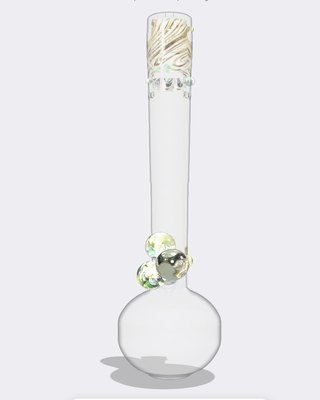
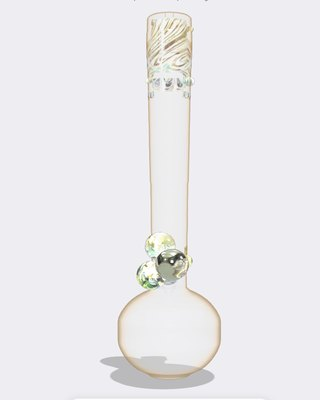
Gold fuming test: Barfly + Woodstock
Claude-Session: https://claude.ai/code/session_01AJWd6wzcifx7uWAAm9NBtR

diff --git a/le/barfly.html b/le/barfly.html
@@ -86,10 +86,10 @@ const photoMat = (map, alpha) => {
 // with the viewing angle (silver-gold / faint pink-blue), never a solid colour
 // (alpha-blended rather than transmission: the background, the marbles and the colour work behind it show
 // through exactly, with no refraction pass to wash it out)
-const G = Object.assign({ tint: 0xfff6e6, op: 0.2, env: 1.0, edge: 0.55 }, C.glassLook || {});
+const G = Object.assign({ tint: 0xfff6e6, op: 0.2, env: 1.0, edge: 0.55, gold: 0xffcc22, goldK: 0.3 }, C.glassLook || {});
 const glassMat = () => new THREE.MeshPhysicalMaterial({ color: G.tint, metalness: 0, roughness: 0.03, ior: 1.47, transparent: true, opacity: G.op,
   depthWrite: false, specularIntensity: 1, envMapIntensity: G.env, clearcoat: 0.6, clearcoatRoughness: 0.03,
-  iridescence: C.fume ?? 0.5, iridescenceIOR: 1.33, iridescenceThicknessRange: [180, 440], side: THREE.DoubleSide });
+  iridescence: C.fume ?? 0.25, iridescenceIOR: 1.33, iridescenceThicknessRange: [300, 460], side: THREE.DoubleSide });
 const maskOf = (k, like) => { if (!T[k]) return null; const t = tex(T[k]); t.colorSpace = THREE.NoColorSpace; t.wrapS = like.wrapS; t.repeat.copy(like.repeat); t.offset.copy(like.offset); return t; };
 const bodyMask = maskOf('bodyMask', bodyTex);
 let body;
@@ -102,6 +102,12 @@ if (C.glass && bodyMask) {
     vertexShader: 'varying vec3 vN; varying vec3 vV; void main(){ vec4 mv = modelViewMatrix * vec4(position,1.); vN = normalize(normalMatrix * normal); vV = normalize(-mv.xyz); gl_Position = projectionMatrix * mv; }',
     fragmentShader: 'uniform vec3 c; uniform float k; varying vec3 vN; varying vec3 vV; void main(){ float r = 1. - abs(dot(normalize(vN), normalize(vV))); gl_FragColor = vec4(c, k * smoothstep(0.55, 0.97, r)); }' }));
   e2.scale.set(1.002, 1, 1.002); piece.add(e2);
+  // silver fuming reads gold: a warm yellow highlight that grows toward the turning walls (no blue)
+  const fu = new THREE.Mesh(bodyGeo, new THREE.ShaderMaterial({ transparent: true, depthWrite: false, blending: THREE.NormalBlending,
+    uniforms: { c: { value: col(G.gold) }, k: { value: G.goldK } },
+    vertexShader: 'varying vec3 vN; varying vec3 vV; void main(){ vec4 mv = modelViewMatrix * vec4(position,1.); vN = normalize(normalMatrix * normal); vV = normalize(-mv.xyz); gl_Position = projectionMatrix * mv; }',
+    fragmentShader: 'uniform vec3 c; uniform float k; varying vec3 vN; varying vec3 vV; void main(){ float r = 1. - abs(dot(normalize(vN), normalize(vV))); gl_FragColor = vec4(c, k * smoothstep(0.35, 0.95, r)); }' }));
+  fu.scale.set(1.001, 1, 1.001); piece.add(fu);
   const decal = new THREE.Mesh(bodyGeo, photoMat(bodyTex, bodyMask)); decal.scale.set(1.004, 1, 1.004); piece.add(decal);
 } else { body = new THREE.Mesh(bodyGeo, photoMat(bodyTex)); body.castShadow = true; piece.add(body); }
 // a glassy rim light along the silhouette

diff --git a/le/woodstock.html b/le/woodstock.html
@@ -86,10 +86,10 @@ const photoMat = (map, alpha) => {
 // with the viewing angle (silver-gold / faint pink-blue), never a solid colour
 // (alpha-blended rather than transmission: the background, the marbles and the colour work behind it show
 // through exactly, with no refraction pass to wash it out)
-const G = Object.assign({ tint: 0xfff6e6, op: 0.2, env: 1.0, edge: 0.55 }, C.glassLook || {});
+const G = Object.assign({ tint: 0xfff6e6, op: 0.2, env: 1.0, edge: 0.55, gold: 0xffcc22, goldK: 0.3 }, C.glassLook || {});
 const glassMat = () => new THREE.MeshPhysicalMaterial({ color: G.tint, metalness: 0, roughness: 0.03, ior: 1.47, transparent: true, opacity: G.op,
   depthWrite: false, specularIntensity: 1, envMapIntensity: G.env, clearcoat: 0.6, clearcoatRoughness: 0.03,
-  iridescence: C.fume ?? 0.5, iridescenceIOR: 1.33, iridescenceThicknessRange: [180, 440], side: THREE.DoubleSide });
+  iridescence: C.fume ?? 0.25, iridescenceIOR: 1.33, iridescenceThicknessRange: [300, 460], side: THREE.DoubleSide });
 const maskOf = (k, like) => { if (!T[k]) return null; const t = tex(T[k]); t.colorSpace = THREE.NoColorSpace; t.wrapS = like.wrapS; t.repeat.copy(like.repeat); t.offset.copy(like.offset); return t; };
 const bodyMask = maskOf('bodyMask', bodyTex);
 let body;
@@ -102,6 +102,12 @@ if (C.glass && bodyMask) {
     vertexShader: 'varying vec3 vN; varying vec3 vV; void main(){ vec4 mv = modelViewMatrix * vec4(position,1.); vN = normalize(normalMatrix * normal); vV = normalize(-mv.xyz); gl_Position = projectionMatrix * mv; }',
     fragmentShader: 'uniform vec3 c; uniform float k; varying vec3 vN; varying vec3 vV; void main(){ float r = 1. - abs(dot(normalize(vN), normalize(vV))); gl_FragColor = vec4(c, k * smoothstep(0.55, 0.97, r)); }' }));
   e2.scale.set(1.002, 1, 1.002); piece.add(e2);
+  // silver fuming reads gold: a warm yellow highlight that grows toward the turning walls (no blue)
+  const fu = new THREE.Mesh(bodyGeo, new THREE.ShaderMaterial({ transparent: true, depthWrite: false, blending: THREE.NormalBlending,
+    uniforms: { c: { value: col(G.gold) }, k: { value: G.goldK } },
+    vertexShader: 'varying vec3 vN; varying vec3 vV; void main(){ vec4 mv = modelViewMatrix * vec4(position,1.); vN = normalize(normalMatrix * normal); vV = normalize(-mv.xyz); gl_Position = projectionMatrix * mv; }',
+    fragmentShader: 'uniform vec3 c; uniform float k; varying vec3 vN; varying vec3 vV; void main(){ float r = 1. - abs(dot(normalize(vN), normalize(vV))); gl_FragColor = vec4(c, k * smoothstep(0.35, 0.95, r)); }' }));
+  fu.scale.set(1.001, 1, 1.001); piece.add(fu);
   const decal = new THREE.Mesh(bodyGeo, photoMat(bodyTex, bodyMask)); decal.scale.set(1.004, 1, 1.004); piece.add(decal);
 } else { body = new THREE.Mesh(bodyGeo, photoMat(bodyTex)); body.castShadow = true; piece.add(body); }
 // a glassy rim light along the silhouette
